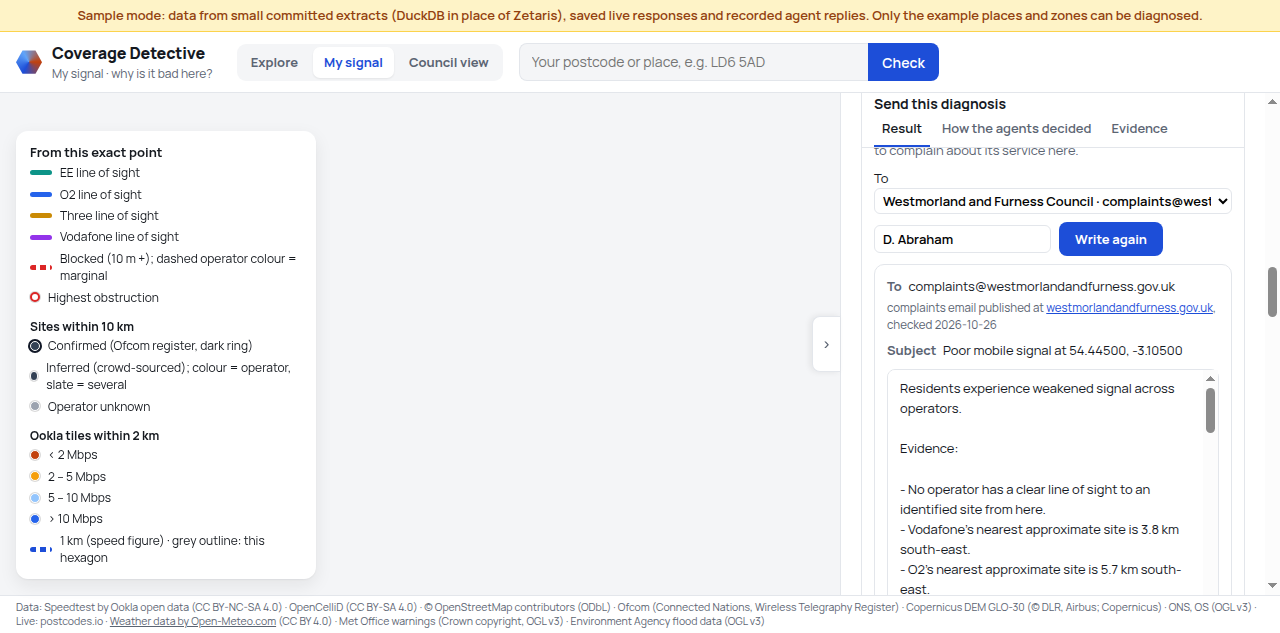
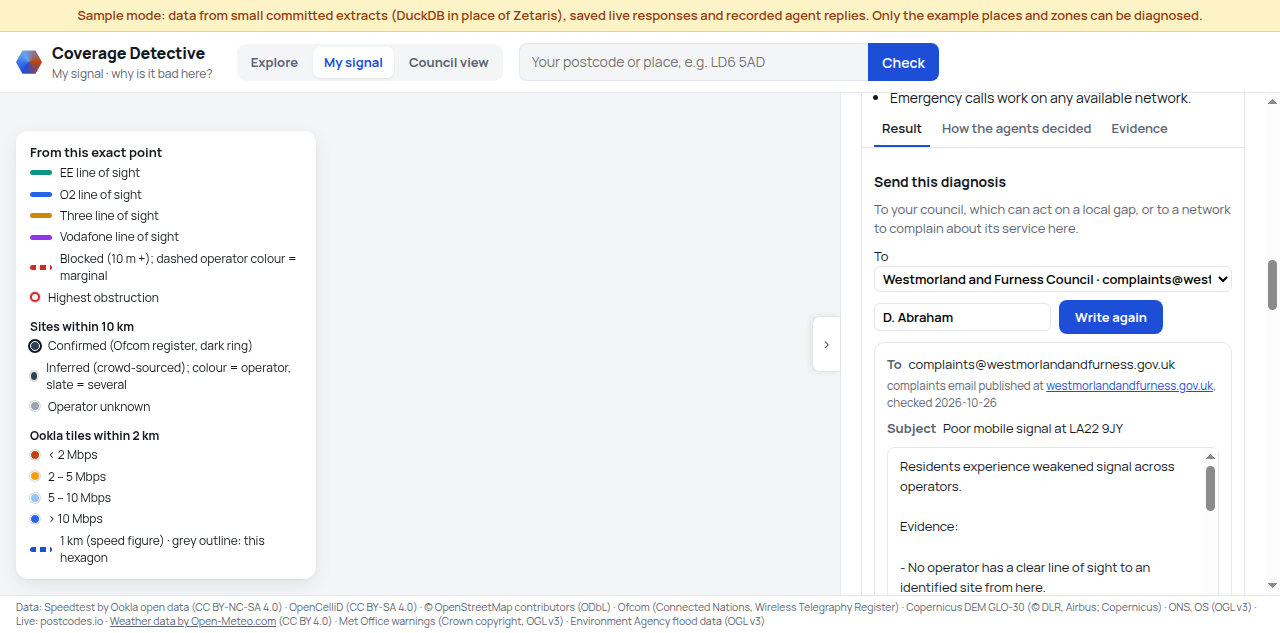
outreach: a subject that names the postcode, not a coordinate pair
The recorded letters title themselves with the run's location label, which is the coordinates
for a lat/lon query. compose now substitutes the postcode, and the screenshots come from the
replayed run with the heading clear of the tabs.

Changed region(s): [[0.6875, 0.2101, 0.9688, 0.9605], [0.6875, 0.1501, 0.9375, 0.1801], [0.9375, 0.7204, 0.9688, 0.8104]]

diff --git a/coverage_detective/outreach.py b/coverage_detective/outreach.py
@@ -350,6 +350,15 @@ def fill_placeholders(md: str, sent_by: str, where: str) -> str:
 # ------------------------------------------------------------------ the message
 
 
+def tidy_subject(subject: str, place: dict) -> str:
+    """A subject names the place a reader knows: swap a bare coordinate pair for the postcode."""
+    lat, lon, postcode = place.get("lat"), place.get("lon"), place.get("postcode")
+    if postcode and isinstance(lat, (int, float)) and isinstance(lon, (int, float)):
+        for coords in (f"{lat:.5f}, {lon:.5f}", f"{lat}, {lon}", f"{lat:.5f},{lon:.5f}"):
+            subject = subject.replace(coords, postcode)
+    return subject
+
+
 def slug(s: str) -> str:
     return re.sub(r"[^a-z0-9]+", "-", (s or "").lower()).strip("-") or "location"
 
@@ -422,7 +431,7 @@ def compose(result: dict, letter: dict, contact: Contact, sent_by: str = "",
     letter_md = fill_placeholders(letter.get("body_markdown") or "", sent_by, where).rstrip()
     sign_md = signature(result, contact, sent_by, at)
     letter_text, sign_text = to_text(letter_md, ids), to_text(sign_md, ids)
-    subject = fill_placeholders((letter.get("subject") or "").strip(), sent_by, where) \
+    subject = tidy_subject(fill_placeholders((letter.get("subject") or "").strip(), sent_by, where), place) \
         or f"Poor mobile signal at {where}: evidence from public data"
     to = contact.email or ""
     mailto, truncated = mailto_uri(to, subject, letter_text, tail=sign_text)

diff --git a/tests/test_outreach.py b/tests/test_outreach.py
@@ -88,6 +88,12 @@ def test_a_placeholder_in_the_subject_is_filled_too():
         "Poor mobile signal at LA22 9JY"
 
 
+def test_a_subject_with_bare_coordinates_names_the_postcode_instead():
+    letter = {"subject": "Poor mobile signal at 54.44500, -3.10500", "body_markdown": "Body [los_ee]."}
+    assert O.compose(RESULT, letter, O.council_contact("Powys"), at=AT).subject == \
+        "Poor mobile signal at LA22 9JY"
+
+
 def test_compose_signs_the_message_with_the_residents_name_when_given():
     email = O.compose(RESULT, LETTER, O.council_contact("Powys"), sent_by="D. Abraham", at=AT)
     assert "Reported by D. Abraham of LA22 9JY" in email.body_text
